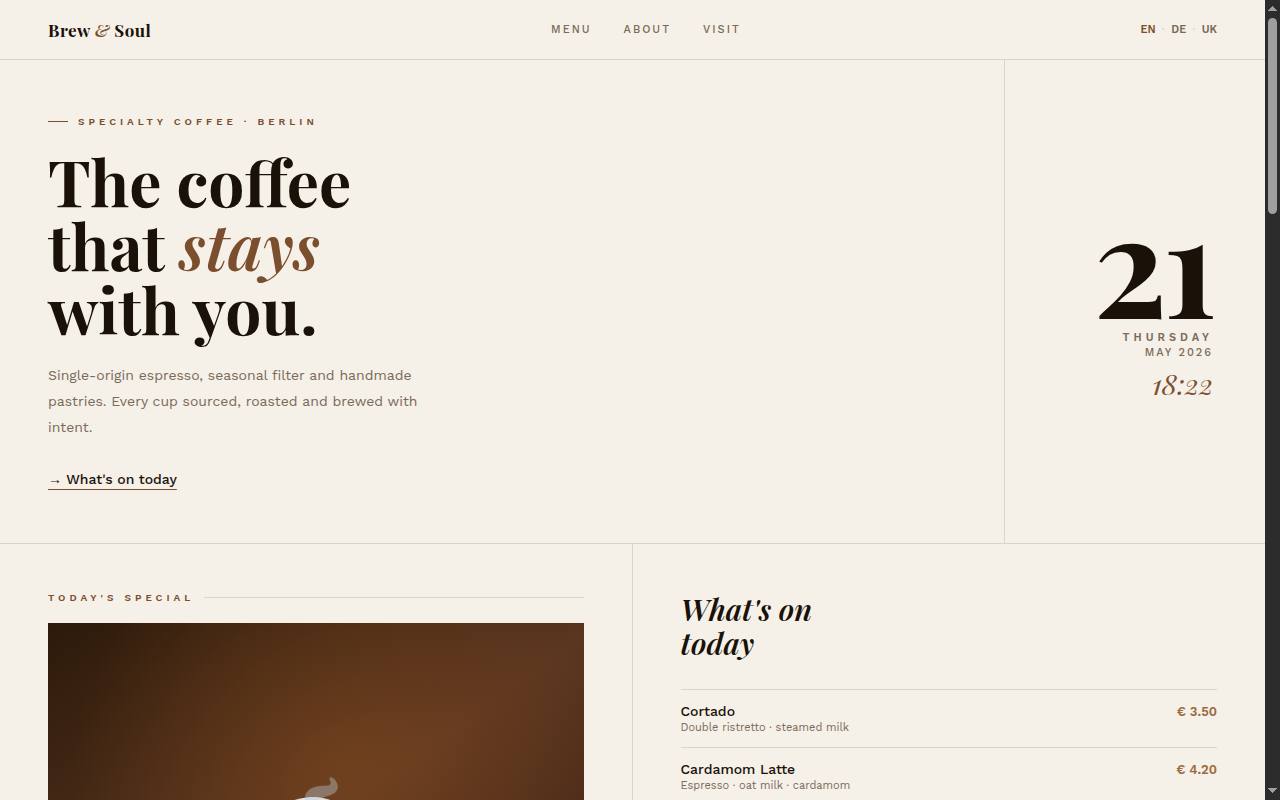
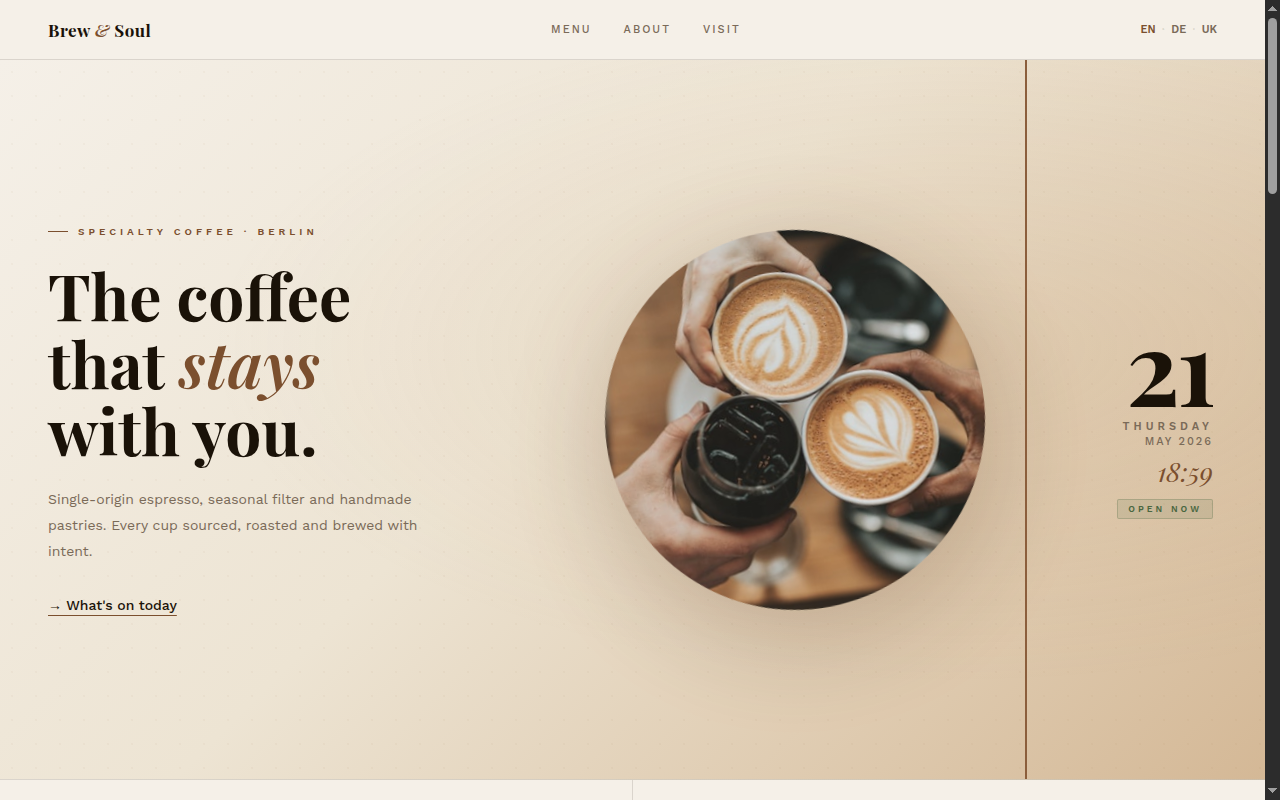
Updates

diff --git a/index.html b/index.html
@@ -1,1 +1,1 @@
-<!doctype html><html lang="en"><head><meta charset="utf-8"/><link rel="icon" href="/portfolio/favicon.ico"/><meta name="viewport" content="width=device-width,initial-scale=1"/><meta name="theme-color" content="#000000"/><meta name="description" content="Web site created using create-react-app"/><link rel="apple-touch-icon" href="/portfolio/logo192.png"/><link rel="manifest" href="/portfolio/manifest.json"/><title>React App</title><script defer="defer" src="/portfolio/static/js/main.6843f0de.js"></script><link href="/portfolio/static/css/main.d8fa0a8d.css" rel="stylesheet"></head><body><noscript>You need to enable JavaScript to run this app.</noscript><div id="root"></div></body></html>
+<!doctype html><html lang="en"><head><meta charset="utf-8"/><link rel="icon" href="/portfolio/favicon.ico"/><meta name="viewport" content="width=device-width,initial-scale=1"/><meta name="theme-color" content="#000000"/><meta name="description" content="Web site created using create-react-app"/><link rel="apple-touch-icon" href="/portfolio/logo192.png"/><link rel="manifest" href="/portfolio/manifest.json"/><title>React App</title><script defer="defer" src="/portfolio/static/js/main.9d851051.js"></script><link href="/portfolio/static/css/main.d8fa0a8d.css" rel="stylesheet"></head><body><noscript>You need to enable JavaScript to run this app.</noscript><div id="root"></div></body></html>